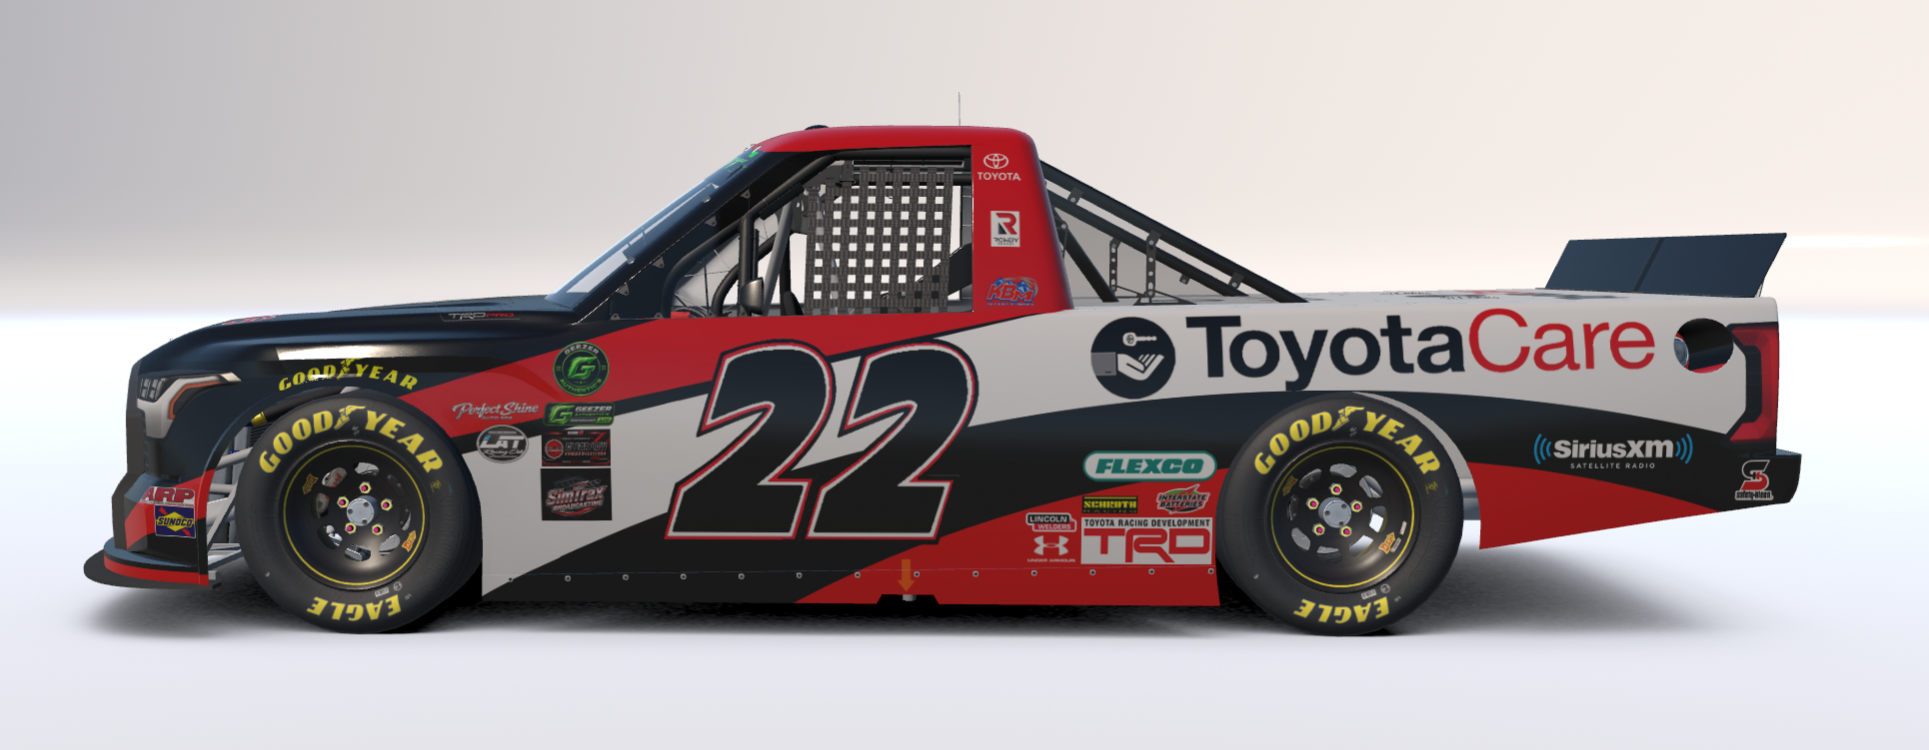
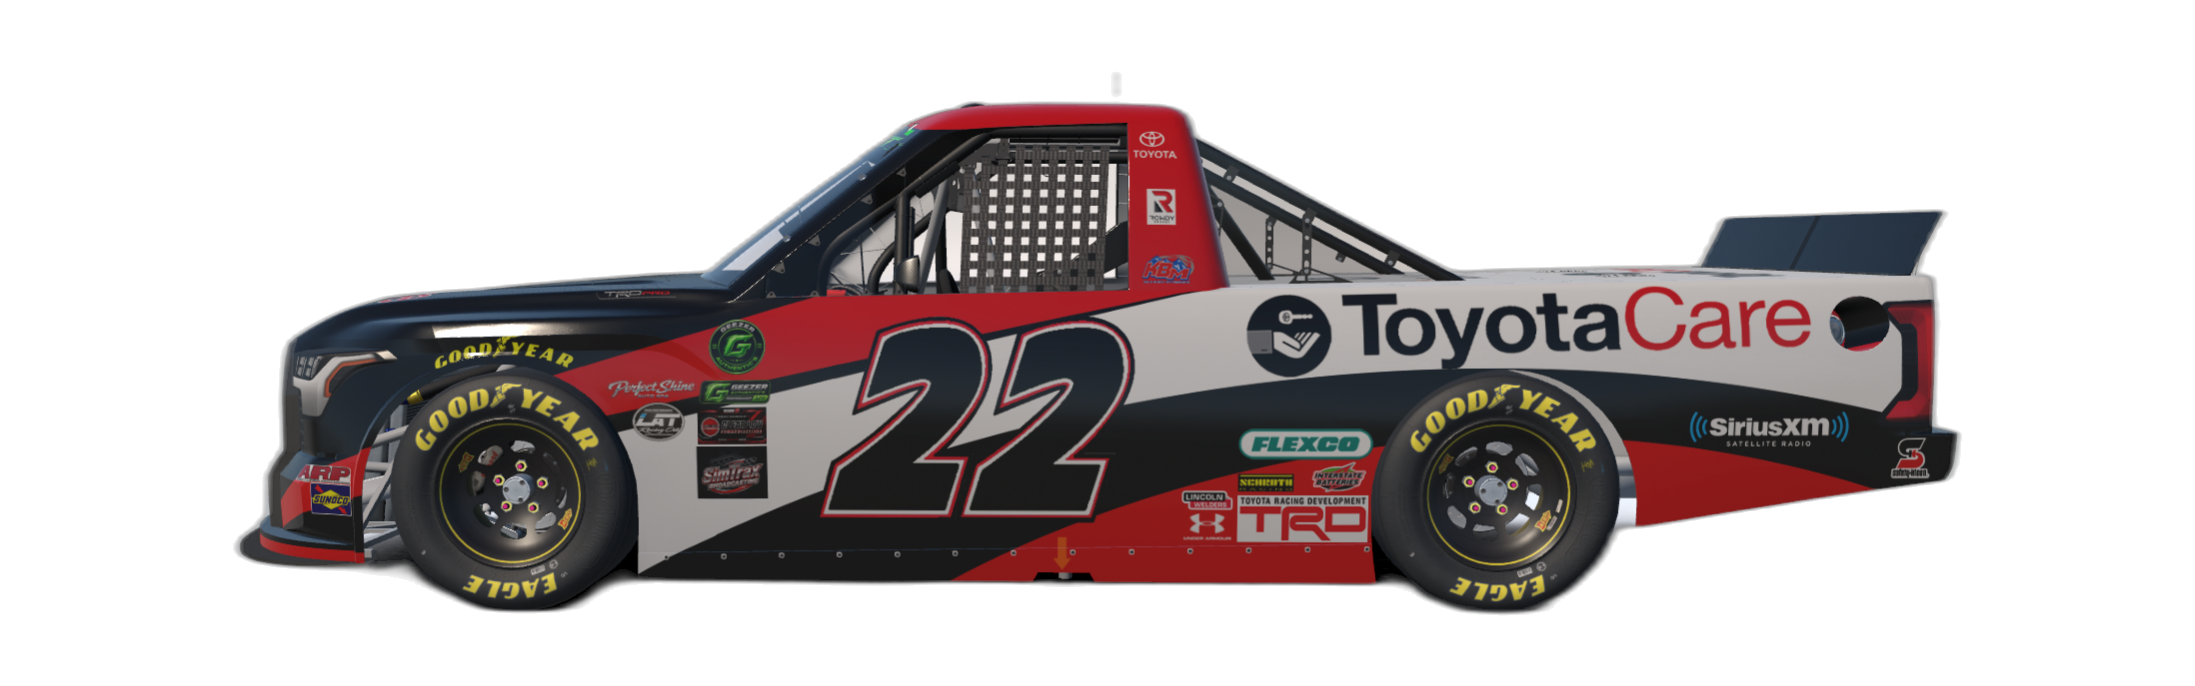
Fix homepage winner spotlight: crop/remove background from Adams truck, pad aspect ratio, and dynamically set object-fit: contain for transparent truck fallbacks

diff --git a/index.html b/index.html
@@ -727,6 +727,7 @@
                 tempImg.onload = function() {
                     spotlightImg.src = carImgSrc;
                     spotlightImg.style.display = 'block';
+                    spotlightImg.style.objectFit = 'cover';
                     fallbackBlock.style.display = 'none';
                     imgLoaded = true;
                 };
@@ -738,6 +739,7 @@
                     tempTruck.onload = function() {
                         spotlightImg.src = truckImgSrc;
                         spotlightImg.style.display = 'block';
+                        spotlightImg.style.objectFit = 'contain';
                         fallbackBlock.style.display = 'none';
                         imgLoaded = true;
                     };
@@ -865,6 +867,11 @@
                         tempWCar.onload = function() {
                             wCarImg.src = wCarImgSrc;
                             wCarImg.style.display = 'block';
+                            if (wCarImgSrc.includes('truck_image_')) {
+                                wCarImg.style.objectFit = 'contain';
+                            } else {
+                                wCarImg.style.objectFit = 'cover';
+                            }
                             wFallbackBlock.style.display = 'none';
                         };
                         tempWCar.onerror = function() {
